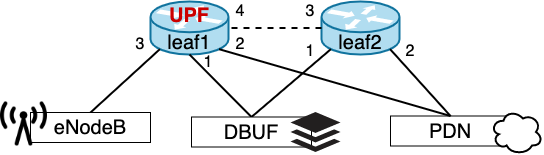
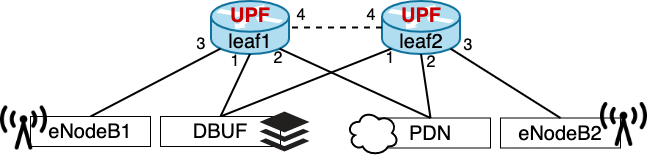
[SDFAB-360] STC scenarios for multi-UPF topology (#168)
* Modify STC scenarios to work with multiple eNodeBs

* Support multiple enodeb in buffering STC scenarios

* Address review comments

* Update remaining STC scenarios with multi enodeb

* Address review comments

* Update tost image

* Fix netcfg for pair-leaf and update images

* Add comments specifying when *_UP4_FLOWS variables are used

Changed region(s): [[0.0, 0.0, 1.0, 1.0]]

diff --git a/scenarios/bin/mock-smf.py b/scenarios/bin/mock-smf.py
@@ -183,8 +183,12 @@ def get_sessions_from_args(args: argparse.Namespace, create_if_missing: bool = F
     :return:
     """
     ue_addr_gen = get_addresses_from_prefix(args.ue_pool, args.session_count)
-    seid_gen = iter(range(args.seid_base, args.seid_base + args.session_count))
-    teid_gen = iter(range(args.teid_base, args.teid_base + args.session_count * 2))
+    seid_gen = iter(
+        range(args.base if args.base else args.seid_base,
+              (args.base if args.base else args.seid_base) + args.session_count))
+    teid_gen = iter(
+        range(args.base if args.base else args.teid_base,
+              (args.base if args.base else args.teid_base) + args.session_count * 2))
 
     for _ in range(args.session_count):
         seid: int = next(seid_gen)
@@ -193,8 +197,15 @@ def get_sessions_from_args(args: argparse.Namespace, create_if_missing: bool = F
         elif create_if_missing:
             active_sessions[seid] = Session(
                 our_seid=seid, ue_addr=next(ue_addr_gen),
-                uplink=UeFlow(teid=next(teid_gen), pdr_id=1, far_id=1, qer_id=1, urr_id=1),
-                downlink=UeFlow(teid=next(teid_gen), pdr_id=2, far_id=2, qer_id=2, urr_id=2))
+                uplink=UeFlow(teid=next(teid_gen), pdr_id=args.base if args.base else args.pdr_base,
+                              far_id=args.base if args.base else args.far_base,
+                              qer_id=args.base if args.base else args.qer_base,
+                              urr_id=args.urr_base),
+                downlink=UeFlow(teid=next(teid_gen),
+                                pdr_id=(args.base if args.base else args.pdr_base) + 1,
+                                far_id=(args.base if args.base else args.far_base) + 1,
+                                qer_id=(args.base if args.base else args.qer_base) + 1,
+                                urr_id=(args.base if args.base else args.urr_base) + 1))
             yield active_sessions[seid]
         else:
             print("WARNING: skipping invalid session with ID %d" % seid)
@@ -682,6 +693,9 @@ def handle_user_input(input_file: Optional[IO] = None, output_file: Optional[IO]
         "--qer-base", type=int, default=1,
         help="The first QER ID to use for the first UE of each session. " +
         "Further QER IDs will be generated by incrementing.")
+    parser.add_argument(
+        "--base", type=int, default=None, help="First ID used to generate all other ID fields." +
+        "If specified, overrides all the other --*-base arguments")
     parser.add_argument("--pdr-precedence", type=int, default=2,
                         help="The priority/precedence of PDRs.")
 

diff --git a/scenarios/topo/topo-gtp-singlepair.py b/scenarios/topo/topo-gtp-singlepair.py
@@ -51,8 +51,8 @@ class SinglePairLeaf(Topo):
         self.addLink(pdn, leaf2)  # port 2
 
         # enodeb IPv4 host attached to leaf 1
-        enodeb1 = self.addHost('enodeb', cls=IPv4Host, mac='00:00:00:00:00:10', ip='140.0.100.1/24',
-                               gw='140.0.100.254')
+        enodeb1 = self.addHost('enodeb1', cls=IPv4Host, mac='00:00:00:00:00:10',
+                               ip='140.0.100.1/24', gw='140.0.100.254')
         self.addLink(enodeb1, leaf1)  # port 3
 
         # enodeb IPv4 host attached to leaf 2
